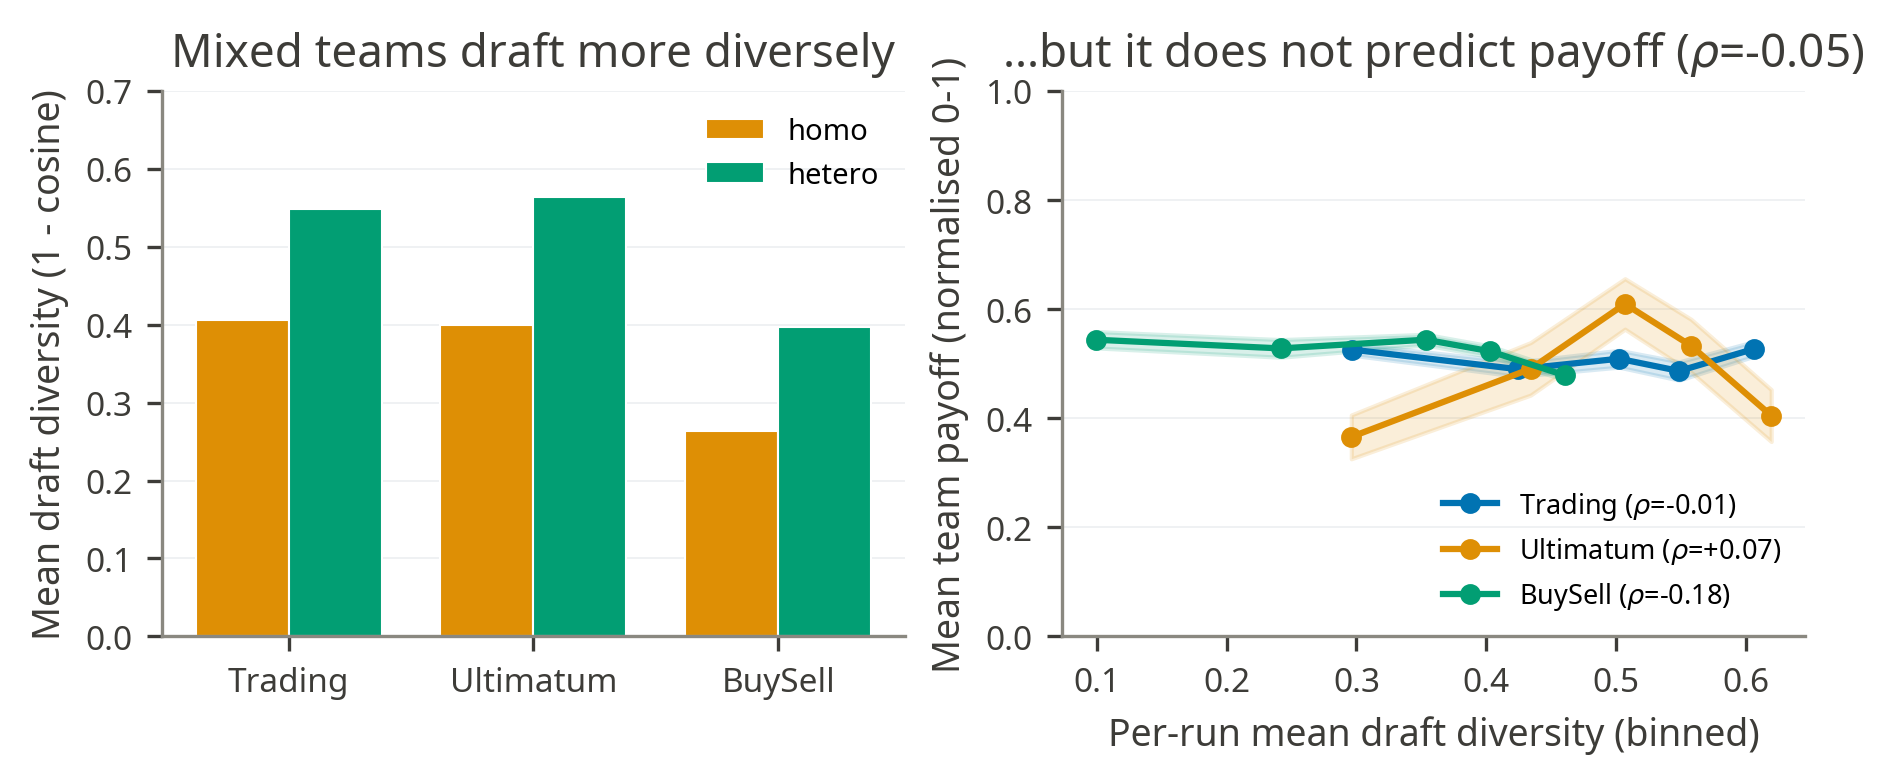
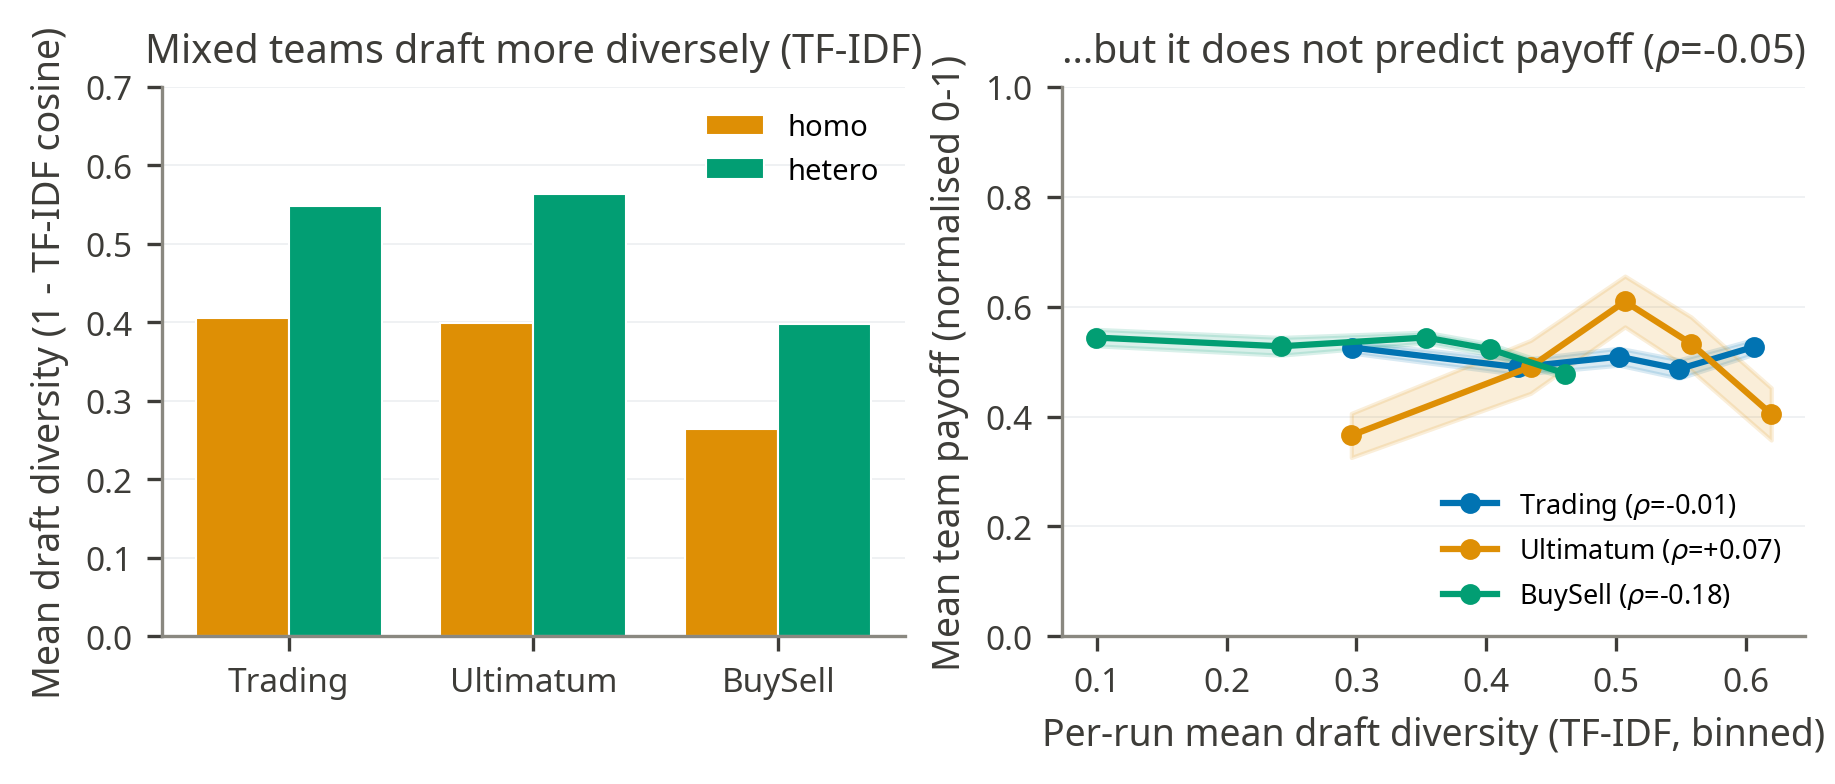
Update negotiation team findings

diff --git a/_notebooks/oss/4_team_negotiation/4_team_negotiation_findings.md b/_notebooks/oss/4_team_negotiation/4_team_negotiation_findings.md
@@ -1,0 +1,47 @@
+# 4\. Team-Based Negotiation
+
+* **Team deliberation didn’t produce any negotiation advantage**  
+    
+- Across 36 matched cells (game x seat x composition x opponent), no win-rate interval separates the team from the matched single agent.  
+- The average team-minus-single win-rate difference is only \+0.037.  
+- Payoff is slightly more favorable to teams, but only locally: 9 of 36 payoff intervals favor the team and 0 favor the single agent, with an average gain of \+2.45.
+
+![](../figures/4_team_negotiation/team_vs_single_winrate.png)
+![](../figures/4_team_negotiation/team_vs_single_payoff.png)
+
+* **Deliberation does not overcome the structural role asymmetry**  
+- The team wins from the same seats that already advantage single agents: Trading and BuySell favor P2, while Ultimatum favors P1.
+
+
+![](../figures/4_team_negotiation/seat_dominates.png)
+
+* **Heterogeneous teams do not outperform homogeneous ones**  
+    
+- Holding seat and opponent fixed, 17 of 18 homogeneous-vs-heterogeneous cells have overlapping intervals.  
+- The mean heterogeneous-minus-homogeneous win-rate difference is essentially zero (-0.005).  
+- The one apparent exception is Trading as P1 against Qwen
+
+![](../figures/4_team_negotiation/homo_vs_hetero_winrate.png)
+
+* **The heterogenous team favour Mistral’s move 80.5% of the time**  
+- Gemma authors 0.174 and Qwen only 0.022, even though Qwen is the strongest single-agent family in the cross-play benchmark.  
+- Gemma voters rank Ministral first 0.697 of the time, Qwen voters 0.835, and Ministral voters 0.868.
+
+  ![](../figures/4_team_negotiation/proposal_direction.png)
+  ![](../figures/4_team_negotiation/hetero_voter_preferences.png)
+
+
+* **Deliberation rounds create convergence**  
+- Members frequently revise their substantive offers, especially in round 1: heterogeneous teams change offer on 56.7% of draft-to-round-1 revisions and 39.7% of round-1-to-round-2 revisions.  
+- Agreement rises through discussion: heterogeneous teams go from 0.197 full agreement at draft stage to 0.483 after round 1 and 0.594 after round 2\.
+
+  ![](../figures/4_team_negotiation/discussion_dynamics.png)
+
+
+* **Draft diversity increases under heterogeneity, but it does not improve outcomes**
+
+- Members frequently revise their substantive offers, especially in round 1: heterogeneous teams change offer on 56.7% of draft-to-round-1 revisions and 39.7% of round-1-to-round-2 revisions.  
+- Agreement rises through discussion: heterogeneous teams go from 0.197 full agreement at draft stage to 0.483 after round 1 and 0.594 after round 2\.
+
+
+  ![](../figures/4_team_negotiation/draft_diversity.png)